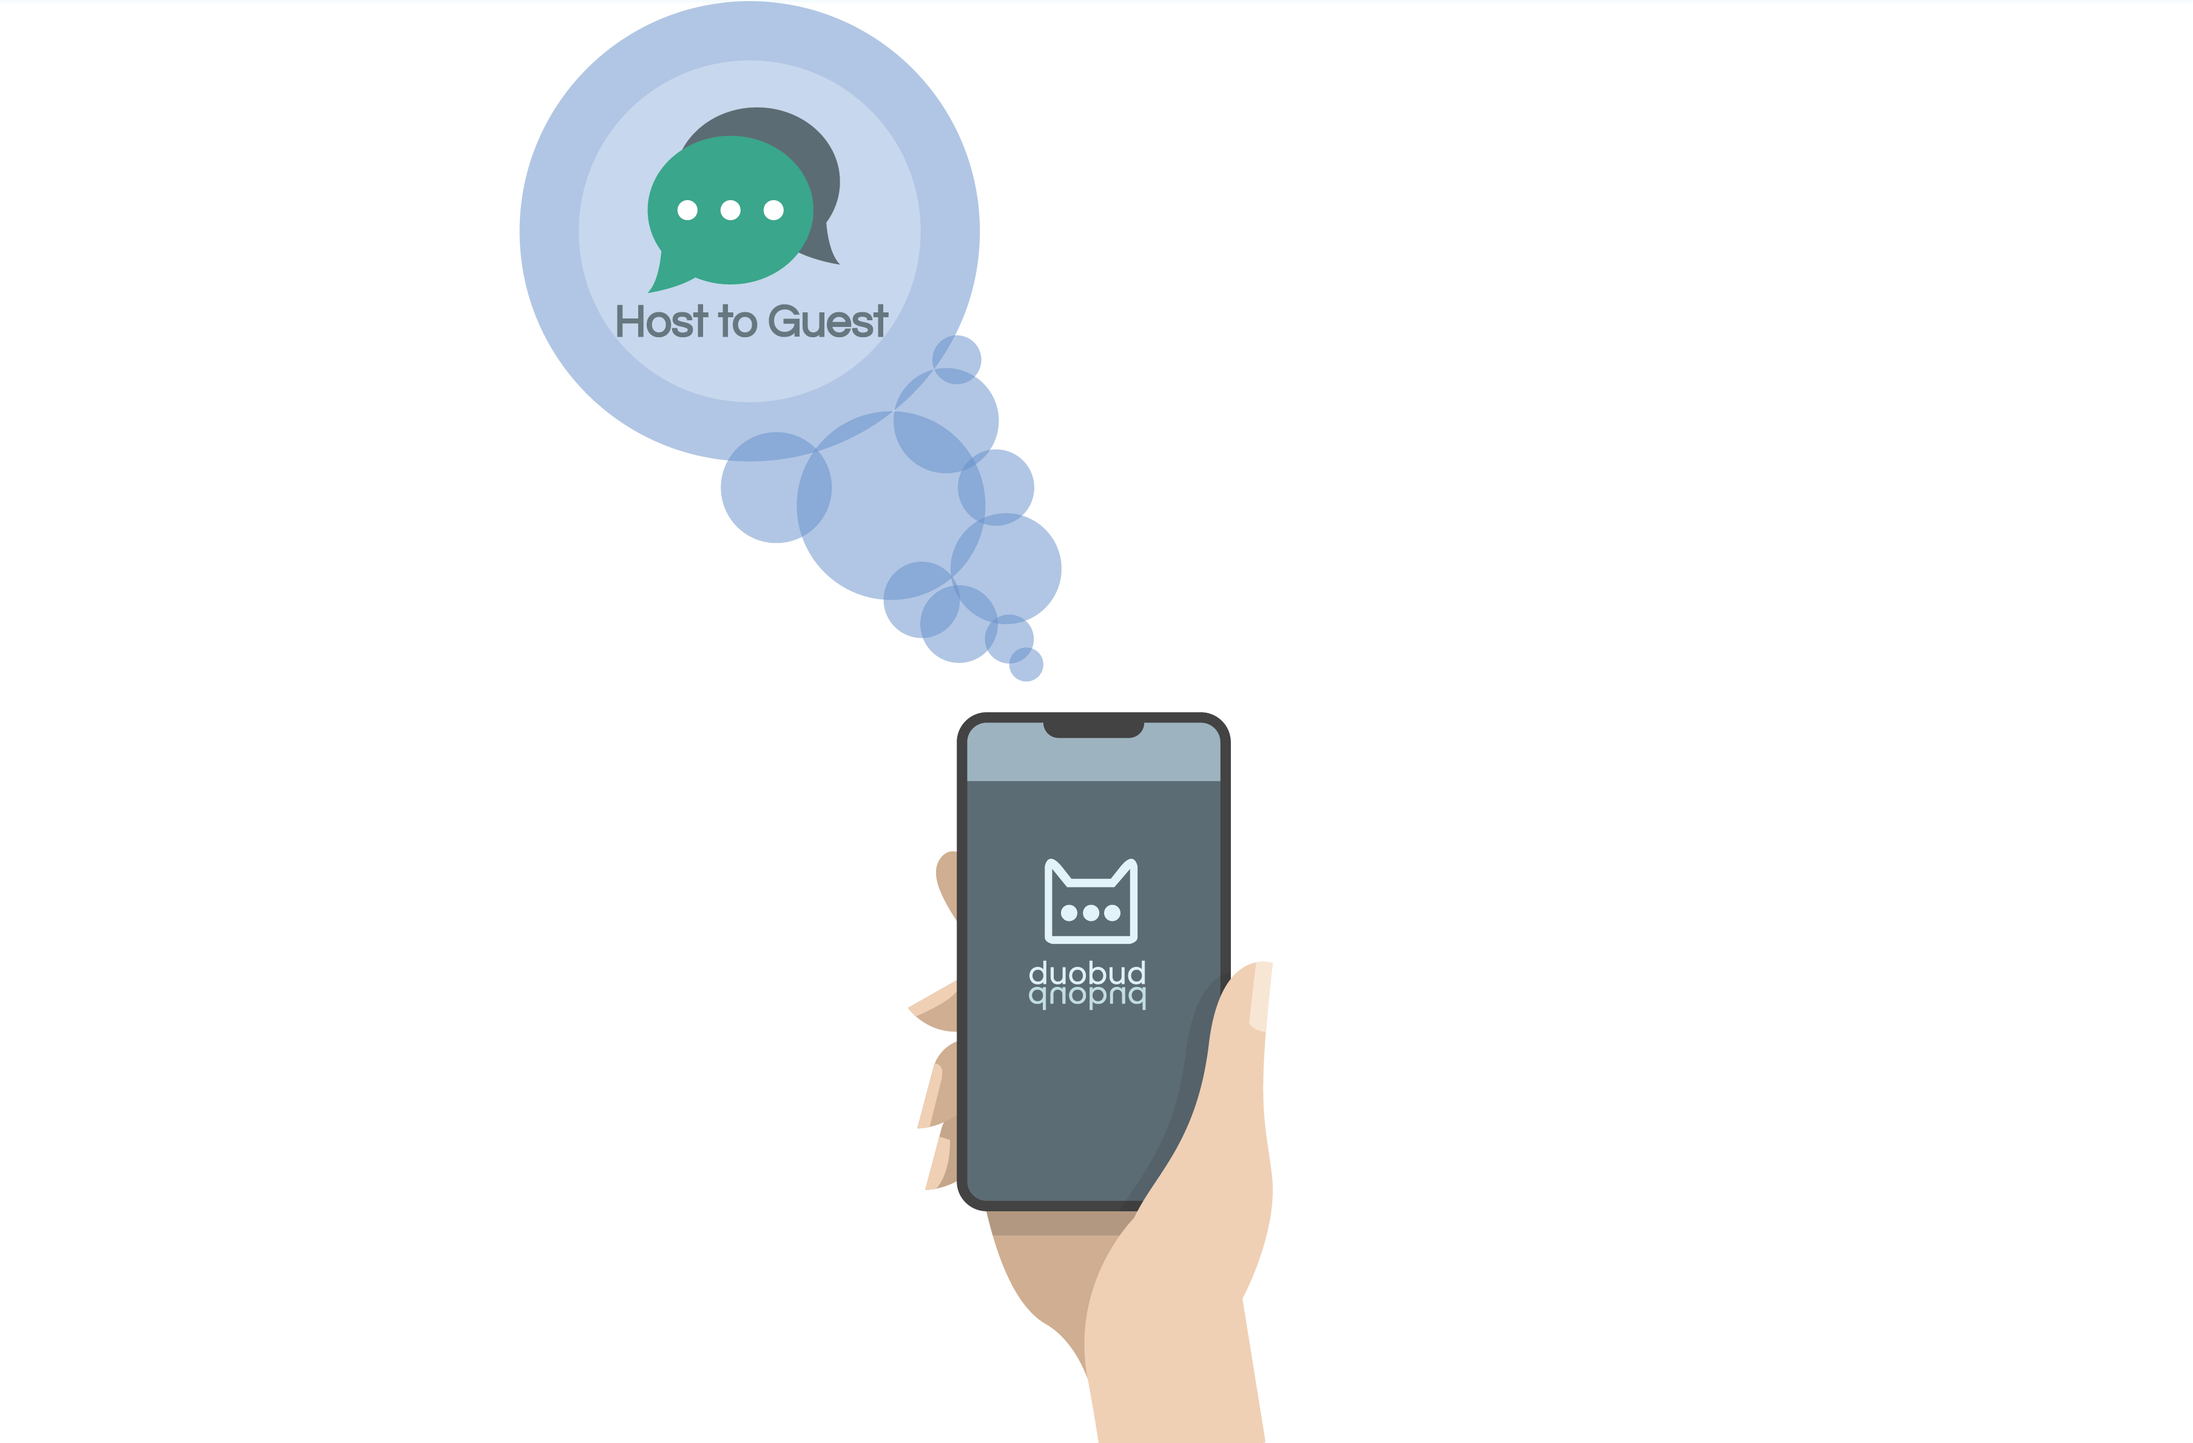
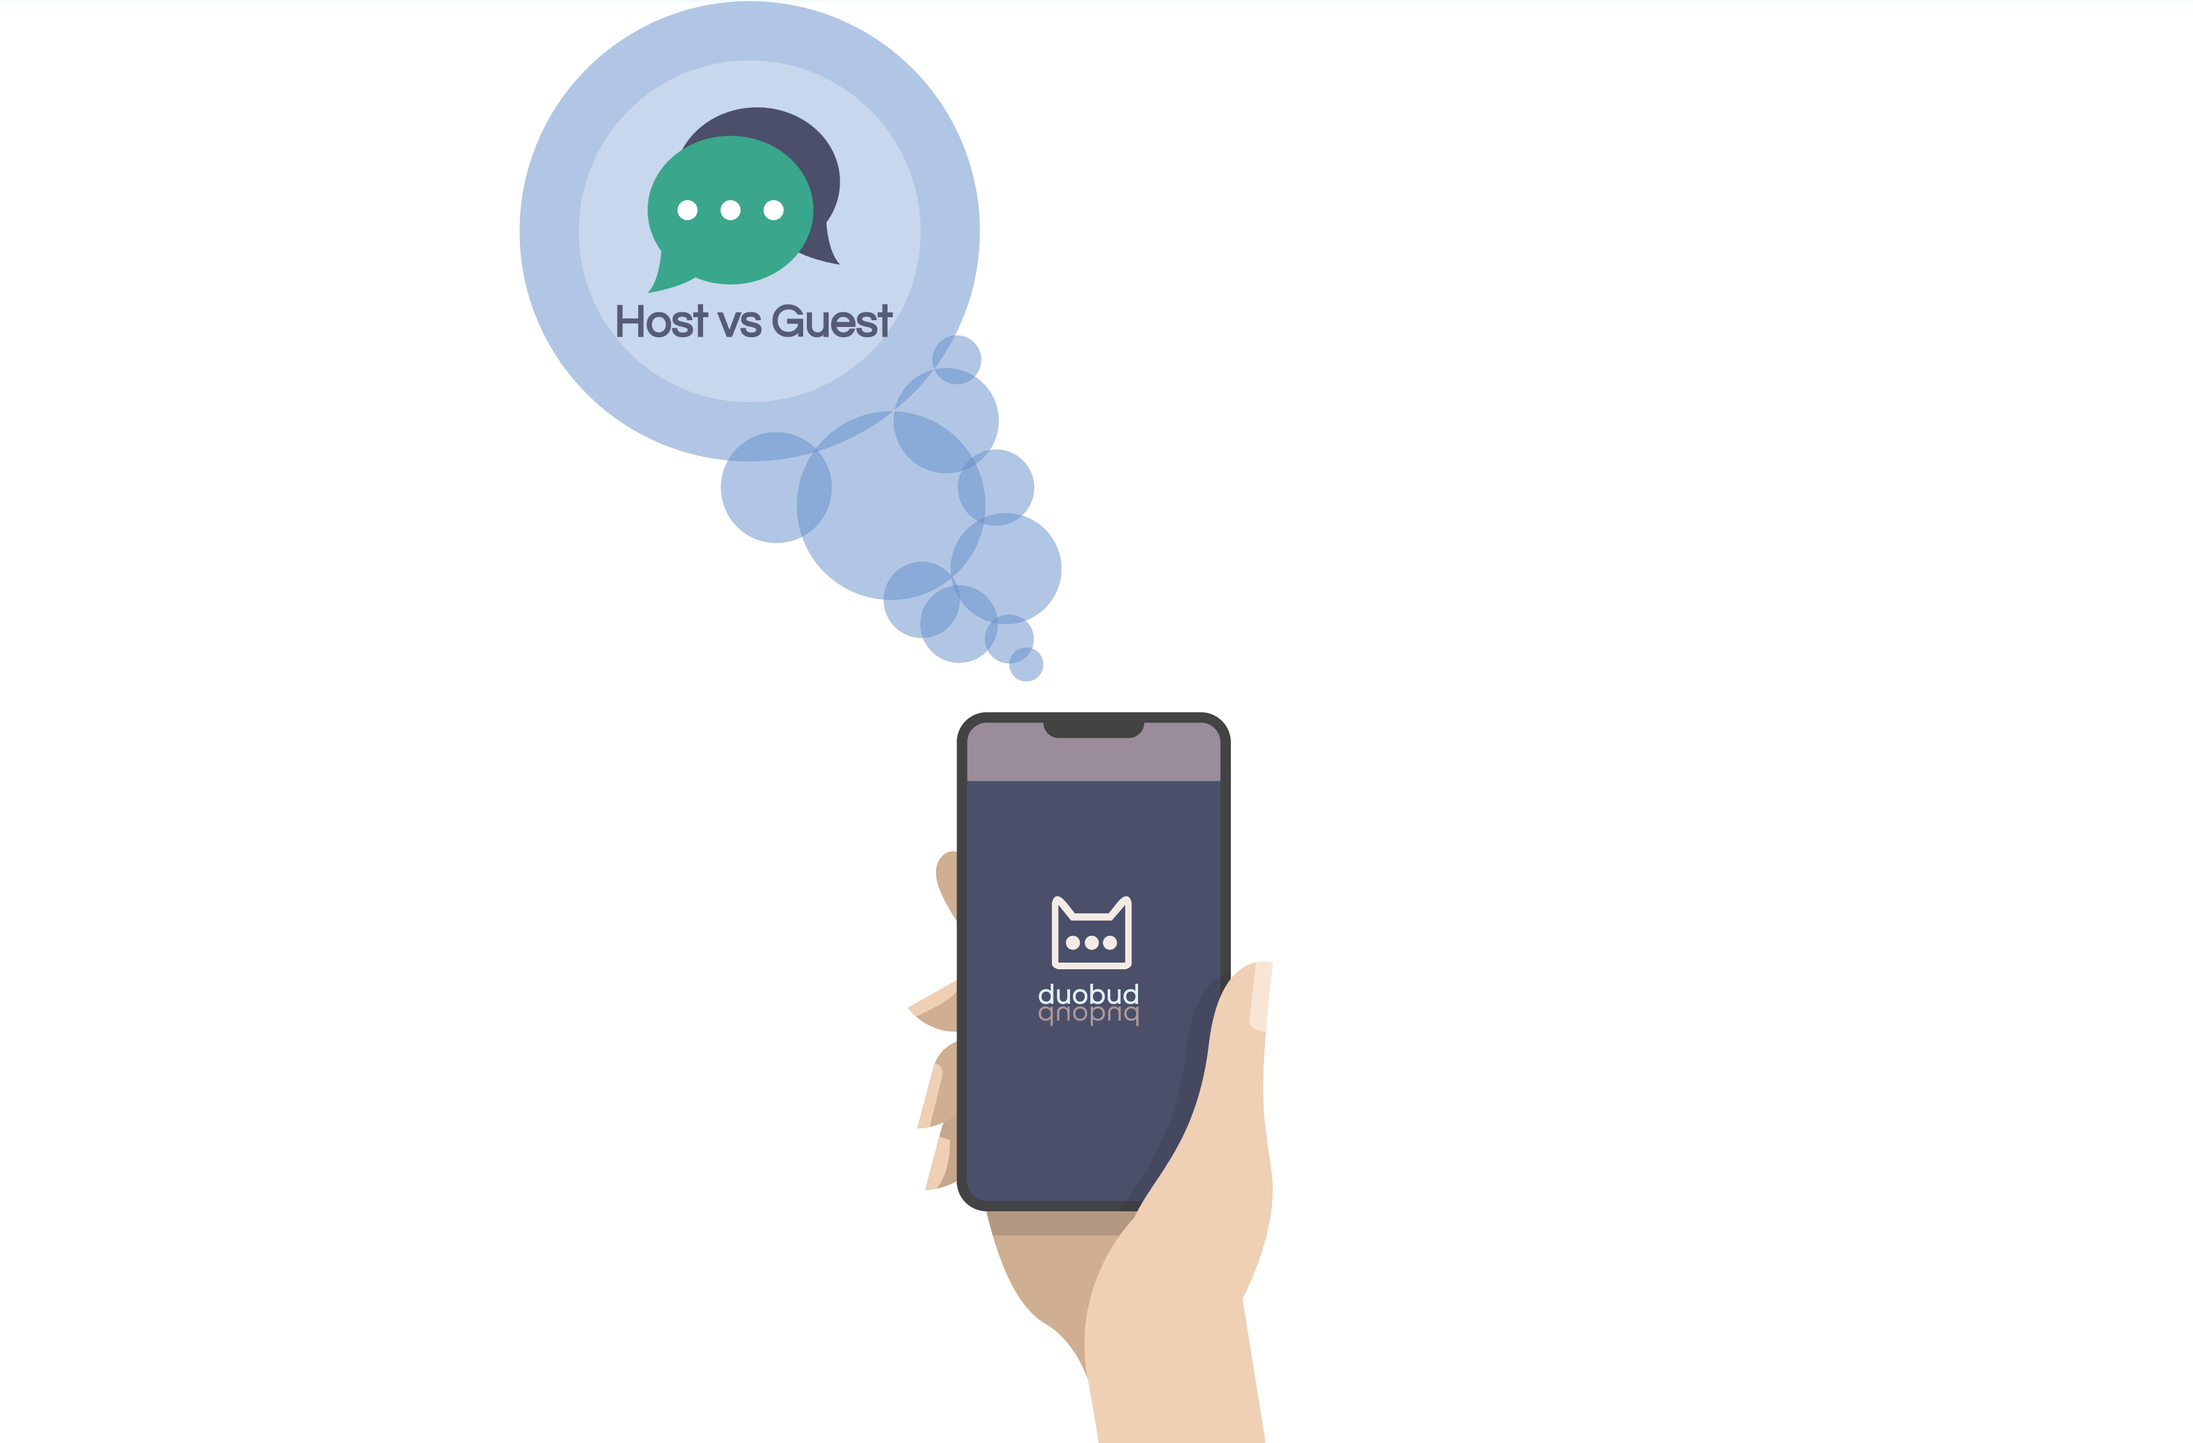
updated and complete website

Changed region(s): [[0.4337, 0.4977, 0.5577, 0.8398], [0.3098, 0.0622, 0.4028, 0.1866], [0.2788, 0.2177, 0.4028, 0.2488]]

diff --git a/website/index.html b/website/index.html
@@ -15,16 +15,16 @@
     <nav class="col-sm">
       <ul>
         <img src="img/logo_icon.png" width="40px"/> duobud
-        <a href="#about"><li>TMZ</li></a>
-        <a href="#about"><li>Product</li></a>
-        <a href="#about"><li>Design Process</li></a>
+        <a href="#prototype_title"><li>About</li></a>
+        <a href="#prototype"><li>Features</li></a>
+        <a href="#profile"><li>TMZ</li></a>
       </ul>
   </nav>
   <section>
     <div class="container-fluid bg" id="banner">
 
         <div class="col-md-3 col-xs-offset-7" id="title">
-          <h3> "Inspirational Quote" </h3>
+          <h3> No Culture is Exclusive </h3>
           <button type="button" class="btn btn-outline-light btn-lg btn-block">Get Started</button>
       </div>
 
@@ -37,8 +37,8 @@
   <!-- <div class="container-fluid bg" id="about">
 </div> -->
 <div id="prototype2">
-  <div class="col-md-3 col-xs-offset-2" id="prototype_title">
-    <h3> "Inspirational Quote" </h3>
+  <div class="col-md-6 col-xs-offset-1" id="prototype_title">
+    <h3> Help a Mate Assimilate </h3>
 </div>
   <img src="img/about.png" width="40%" />
 </div>
@@ -59,105 +59,92 @@
   </div> -->
   <div class="btn-group btn-group-toggle" data-toggle="buttons" id="btn">
   <label class="btn btn-secondary btn-lg">
-    <button type="checkbox" id="option1" checked autocomplete="off" onclick="showImage(1)"> Contacts</button>
+    <button type="checkbox" id="option1" checked autocomplete="off" onclick="showImage(1)"> Chatting</button>
   </label>
 
   <label class="btn btn-secondary  btn-lg">
-    <button type="checkbox" id="option2" checked autocomplete="off"  onclick="showImage(2)"> Host to Guest</button>
+    <button type="checkbox" id="option2" checked autocomplete="off"  onclick="showImage(2)"> Host vs Guest</button>
   </label>
 
   <label class="btn btn-secondary  btn-lg">
-    <button type="checkbox" id="option3" checked autocomplete="off" onclick="showImage(3)"> Messaging </button>
+    <button type="checkbox" id="option3" checked autocomplete="off" onclick="showImage(3)"> Map Function </button>
   </label>
 
   <label class="btn btn-secondary  btn-lg">
-    <button type="checkbox" checked autocomplete="off"  onclick="showImage(4)"> Hidden Tips </button>
+    <button type="checkbox" checked autocomplete="off"  onclick="showImage(4)"> AR Hidden Tips </button>
   </label>
 </div>
 </section>
-  </section>
+</section>
+<section class="container-fluid bg" id="prototype">
+  <h3 style="  font-family: 'Lilita One', cursive;"> Features </h3>
+  <p id="info"></p>
+</section>
   <section>
     <div class="container-fluid bg" id="prototype">
       <img src="img/about_1.png" width="50%"class="cover" id="img1"/>
     </div>
 </section>
 <!-- PROFILE -->
-<!-- <section class="container-fluid bg" id="profile">
-  <h3 class="text-center"> TMZ </h3>
-  <div>
-    <img src="" alt="david" width="" />
-  </div>
-  <div>
-  </div>
-</section> -->
 <section class="" id="profile">
-    <div class="container">
+
+    <div class="container" id="layout">
         <div>
             <h3 class="text-center" id="profileh3">TMZ</h3>
             <span></span>
         </div>
-        <div class="row abbot-main py-lg-5 py-4 mb-sm-5">
-            <div class="col-lg-4 abbot-right">
-                <img src="img/p1.png" class="img-fluid rounded-circle" alt="" />
+        <div class="row">
+            <div class="col-lg-4">
+                <img src="img/p1.png" class="img-fluid rounded-circle" alt="" width="350px"/>
             </div>
             <div class="offset-lg-2"></div>
-            <div class="col-lg-6 about-text-grid position-relative mt-lg-0 mt-5">
-                <div class="d-flex">
+            <div class="col-lg-6">
+                <div>
                     <span class="process-circle"></span>
                     <h3 id="profilehead">David Tran</h3>
                 </div>
-                <p class="mt-md-5 mb-3 mt-3">Donec mi nulla, auctor nec sem a, ornare auctor m faucibus orci luctus et ultrices posuere cubilia Curai.
-                    Sed mi tortor, commodo a felis in, fringilla tincidunt nulla. </p>
-                <p>fringilla tincidunt nulla onec mi nulla, auctor nec sem a, ornare auctor m faucibus orci luctus et ultrices
-                    posuere cubilia Curai. Sed mi tortor, commodo a felis in. </p>
+                <p>My strengths and professional ethos has always been based around hard work and determination. Being honest, realistic and reliable with all personal and professional aspects has allowed me to build relationships and networks to channel my opportunities for progression and contribute to a solutions-focused team.</p>
+                <p>Throughout my experiences in university, I’ve developed many skills in terms of design knowledge and programming. From all my experiences in my degree, I’ve found my strengths to be through the technical side and the back-end related programming. For this course, I wish to work on more of my weaknesses, that being the different design aspects and possibly any further chances to pitch and present an idea.</p>
                 <div class="process-direction"></div>
             </div>
         </div>
-        <div class="row abbot-main py-lg-5 py-4 my-md-5">
-            <div class="col-lg-6 about-text-grid">
-                <div class="d-flex">
+        <div>
+            <div class="col-lg-6">
+                <div>
                     <h3 id="profilehead">Hamish Tran</h3>
                     <span class="process-circle"></span>
                 </div>
-                <p class="mt-md-5 mb-3 mt-3">Donec mi nulla, auctor nec sem a, ornare auctor m faucibus orci luctus et ultrices posuere cubilia Curai.
-                    Sed mi tortor, commodo a felis in, fringilla tincidunt nulla. </p>
-                <p>fringilla tincidunt nulla onec mi nulla, auctor nec sem a, ornare auctor m faucibus orci luctus et ultrices
-                    posuere cubilia Curai. Sed mi tortor, commodo a felis in. </p>
+                <p>Currently studying B Multimedia Design in my third year, my strengths and weaknesses is the graphic design and UI/UX related design work. Confident with front-end programming but not back-end so will assist in any front-end related programming work and only simple back-end. I have experiences the past 3 years in HTML/CSS coding developing mainly front end for assignments and clients.</p>
+                <p>Areas im poor at is i have trouble vouching my ideas within a group, like either it’s the inability to express my ideas to the group which causes me to have a lack of creativity on the spot, until a couple of couple days later then a good idea will pop up. </p>
             </div>
-            <div class="col-lg-4 abbot-right">
-                <img src="img/p2.png" class="img-fluid rounded-circle" alt="" />
+            <div class="col-lg-4">
+                <img src="img/p2.png" class="img-fluid rounded-circle" alt="" width="350px"/>
             </div>
         </div>
-        <div class="row abbot-main py-lg-5 py-4 mb-sm-5">
-            <div class="col-lg-4 abbot-right">
-                <img src="img/p3.png" class="img-fluid rounded-circle" alt="" />
+        <div class="row">
+            <div class="col-lg-4">
+                <img src="img/p3.png" class="img-fluid rounded-circle" alt="" width="350px" />
             </div>
             <div class="offset-lg-2"></div>
-            <div class="col-lg-6 about-text-grid position-relative  mt-lg-0 mt-5">
+            <div class="col-lg-6">
                 <div class="d-flex">
                     <span class="process-circle"></span>
                     <h3 id="profilehead">Momoka Matsubara-Park</h3>
                 </div>
-                <p class="mt-md-5 mb-3 mt-3">Fringilla tincidunt nulla onec mi nulla, auctor nec sem a, ornare auctor m faucibus orci luctus et ultrices
-                    posuere cubilia Curai. Sed mi tortor, commodo a felis in. </p>
-                <p>Donec mi nulla, auctor nec sem a, ornare auctor m faucibus orci luctus et ultrices posuere cubilia Curai.
-                    Sed mi tortor, commodo a felis in, fringilla tincidunt nulla. </p>
+                <p>My aspirations for this course are to understand the ways technology affect our daily lives and participate in the discourse of the ever changing environment of technology and the design space, all the while improving my own personal design and development skills. Design skills include the understanding of the design process, with the ability to analyse user research for iteration purposes and later document them in an understandable manner. While these strengths are aspects that I wish to improve on further in this course, my weaknesses lie within programming and the general issue of time management.</p>
                 <div class="process-direction2"></div>
             </div>
         </div>
-        <div class="row abbot-main py-lg-5 py-4 my-md-5">
+        <div class="row">
             <div class="col-lg-6 about-text-grid">
-                <div class="d-flex">
+                <div>
                     <h3 id="profilehead">Rong Zhong</h3>
                     <span class="process-circle"></span>
                 </div>
-                <p class="mt-md-5 mb-3 mt-3">Donec mi nulla, auctor nec sem a, ornare auctor m faucibus orci luctus et ultrices posuere cubilia Curai.
-                    Sed mi tortor, commodo a felis in, fringilla tincidunt nulla. </p>
-                <p>fringilla tincidunt nulla onec mi nulla, auctor nec sem a, ornare auctor m faucibus orci luctus et ultrices
-                    posuere cubilia Curai. Sed mi tortor, commodo a felis in. </p>
+                <p class="mt-md-5 mb-3 mt-3">From studying in digital media and previous semester, I consider myself able to build the prototype by implementing the project concept and based on the evaluation of the needs of target audience. Then, to develop a strategic task to test the prototype, collect and integrate the user feedback by observing, questionnaire and interviewing to generate the specific area and function that need to improve from a professional perspective. Moreover, I will keep refining the prototype by addressing HCI concept, and use the design thinking process to implement the project by iterating the concept from new data and findings. Then, based on project requirements to provide precise suggestions to the front-end and back-end programmer, to deliver a better user experience in the final installation. My weakness is that I don't have much experience with language programming, I can only build a basic website by HTML/CSS.</p>
             </div>
             <div class="col-lg-4 abbot-right">
-                <img src="img/p2.png" class="img-fluid rounded-circle" alt="" />
+                <img src="img/p4.png" class="img-fluid rounded-circle" alt="" width="350px"/>
             </div>
         </div>
     </div>
@@ -169,15 +156,19 @@
     var img = document.getElementById('img1');
     if(x == 1){
     img.src ="img/about_contacts.png";
+    document.getElementById("info").innerHTML = "<h3>Chatting</h3><p>The chatting function provides a space for communication between the guest and host. It is a simple one on one text conversation, with chats separated between the user acting as a guest or acting as a host.</p>";
     }
     if(x == 2){
     img.src ="img/about_h2g.png";
+    document.getElementById("info").innerHTML = "<h3>Contacts</h3><p>One of the main features of our application that make it unique is the ability to act as a guest or a host. In a similar way of a tutor and student, a guest is someone with the desire to learn and understand the culture of their adopted country. A host is someone who has successfully assimilated while maintaining an understanding of their own personal ethnic background and is willing to help a guest learn within their comfort zone. In the event that a user has grown accustomed to their environment and wish to begin helping others, they are able to switch between the guest and host role on the chat screen.</p>";
     }
     if(x == 3){
     img.src ="img/about_msg.png";
+    document.getElementById("info").innerHTML = "<h3>Map Function</h3><p>The map function is a crowd sourced location recommendation that unlike most other map applications that will show you every restaurant, park, and popular tourist destination, it will provide local knowledge of what places have the best authentic cuisine and other local knowledge that may be unknown due to overly commercialised stores.</p>";
     }
     if(x == 4){
     img.src ="img/about_tips.png";
+    document.getElementById("info").innerHTML = "<h3>AR Hidden Tips</h3><p>Users will be prompted with a notification, alerting them that a hidden tip is nearby. The hidden tips act as fun facts or information as provided by users. With the implementation of augmented reality, users are able to explore their surroundings with this fun addition.</p>";
     }
 }
   </script>

diff --git a/website/css/index.css b/website/css/index.css
@@ -32,7 +32,7 @@ nav li{
   background-image: url(../img/banner3.png);
   background-size: cover;
   background-repeat: no-repeat;
-  font-family: 'Assistant', sans-serif;
+  font-family: 'Lilita One', cursive;
   width: 100%;
 }
 #title h3{
@@ -57,39 +57,53 @@ nav li{
 }
 /* sections prototype */
 #prototype{
-    background-color: #c2dee2;
+    background-color: #f2e9e4;
     text-align: center;
 }
 #prototype2{
-    background-color: #9db4c0;
+    background-color: #c9ada7;
     text-align: right;
     padding-top: 50px;
     padding-bottom: 50px;
     padding-right: 10%;
 }
-#prototype_title{
-  font-size: 2em;
+#prototype_title h3{
+  font-size: 4em;
   text-align: center;
   color: white;
-  margin-top: 9%;
+  margin-top: 20%;
+  font-family: 'Lilita One', cursive;
 }
 .cover{
   width: 50%;
-  margin-top: 10%;
 }
 #btn{
   text-align: center;
   font-family: 'Assistant', sans-serif;
-  border: 2px black solid;
+  background-color: #4a4e69;
+  border-radius: 10px;
 }
 .buttons{
   text-align: center;
-  background-color: #c2dee2;
+  background-color: #f2e9e4;
     padding-top: 20px;
+}
+#info{
+  background-color: #4a4e69;
+  border-radius: 10px;
+  margin: 0 auto;
+  width: 36%;
+  font-family: 'Assistant', sans-serif;
+  color: white;
+  padding-left: 10px;
+  padding-right: 10px;
 }
 /* sections PROFILE*/
 #profile{
-  background-color: #e0fbfc;
+  background-color: #4a4e69;
+}
+#profile p{
+  color: white;
 }
 #profileh3{
   margin: 5%;
@@ -98,6 +112,7 @@ nav li{
   text-transform: uppercase;
   font-weight: 800;
   margin-bottom: 1em;
+  color: white;
 }
 #profilehead{
   margin: 5%;
@@ -106,10 +121,14 @@ nav li{
   text-transform: uppercase;
   font-weight: 100;
   margin-top: 2em;
+  color: white;
+}
+#layout{
+  margin-left: 16%;
+}
+#ph3{
+    font-family: 'Lilita One', cursive;
 }
 .rounded-circle {
   border-radius: 50% !important;
-}
-#profile p{
-
 }
